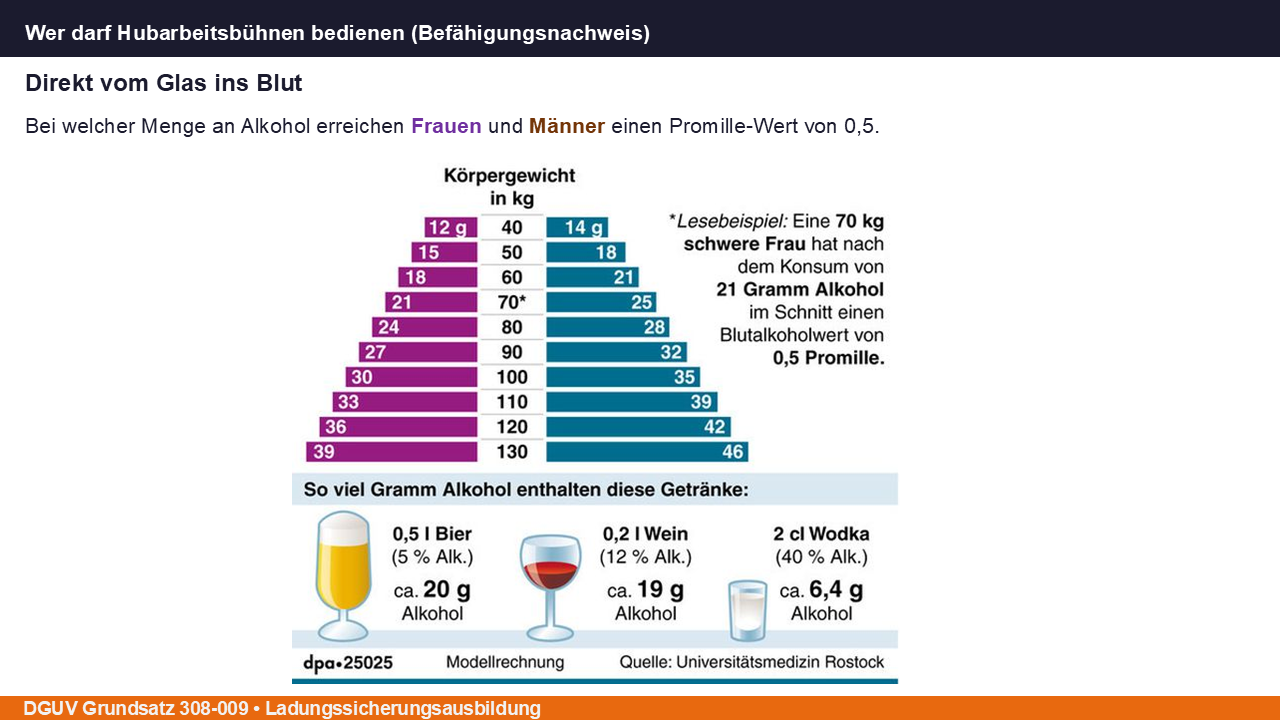
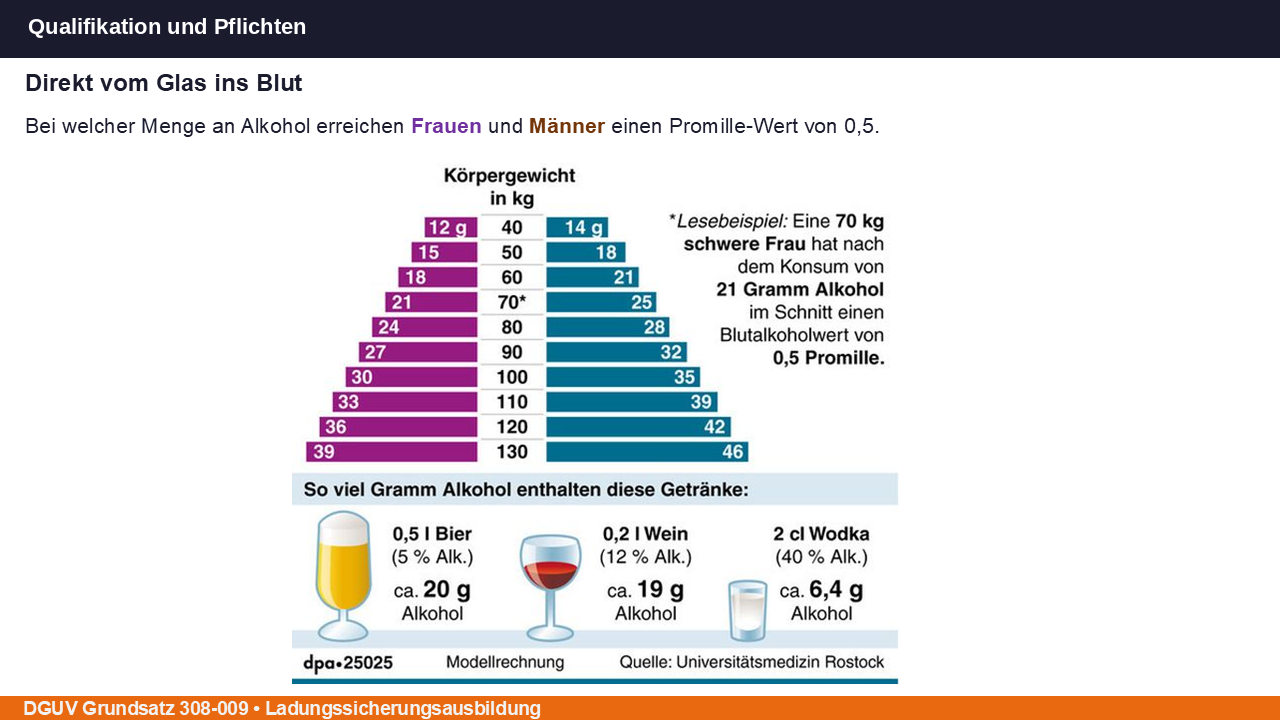
LaSi-Schulung: falsche Folientitel korrigiert + Foliennummerierung vereinheitlicht
Folie48.PNG und Folie49.PNG (Alkoholabbau-Inhalte in Kapitel "Rechtliche
Grundlagen & Verantwortung") trugen fälschlich die Titelzeile "Wer darf
Hubarbeitsbühnen bedienen (Befähigungsnachweis)" aus einem anderen
Foliensatz. Titelzeile auf "Qualifikation und Pflichten" korrigiert,
passend zu den unveränderten Nachbarfolien 47 und 50.

Zusätzlich zeigte die Kopfzeile ("Kapitel X · Folie Y") die
kapitelinterne Positionsnummer, während die Fußzeile die globale
Folien-ID anzeigte — für dieselbe Folie standen dadurch zwei
unterschiedliche "Folie"-Zahlen auf dem Bildschirm. Kopfzeile zeigt
jetzt dieselbe globale Folien-ID wie die Fußzeile; die
Kapitel-Fortschrittsanzeige unten heißt jetzt "X / Y in diesem Kapitel"
statt nochmal "Folie X / Y".

Changed region(s): [[0.0, 0.0306, 0.5, 0.0611]]

diff --git a/staplerapp_lasi_1.html b/staplerapp_lasi_1.html
@@ -666,7 +666,7 @@ function renderFoot(showBack=true,showNext=true,nextLabel='Weiter →'){
   let pageText='';
   if(s.type==='folie'||s.type==='video'){
     const k=KAPITEL[s.ki];
-    pageText=`Folie ${s.fi+1} / ${k.folien.length}`;
+    pageText=`${s.fi+1} / ${k.folien.length} in diesem Kapitel`;
   }
   foot.innerHTML=`
     ${showBack?`<button class="navbtn" onclick="goStep(${cur-1})" ${cur===0?'disabled':''}>← Zurück</button>`:'<div></div>'}
@@ -682,8 +682,8 @@ function render(){
   const crumb=document.getElementById('crumb');
   if(s.type==='welcome'){crumb.textContent='';renderWelcome(host);}
   else if(s.type==='chapter'){crumb.textContent=`Kapitel ${s.ki+1}`;renderChapter(host,s.ki);}
-  else if(s.type==='folie'){crumb.textContent=`Kapitel ${s.ki+1} · Folie ${s.fi+1}`;renderFolie(host,s);}
-  else if(s.type==='video'){crumb.textContent=`Kapitel ${s.ki+1} · Folie ${s.fi+1}`;renderVideo(host,s);}
+  else if(s.type==='folie'){crumb.textContent=`Kapitel ${s.ki+1} · Folie ${s.fn}`;renderFolie(host,s);}
+  else if(s.type==='video'){crumb.textContent=`Kapitel ${s.ki+1} · Folie ${s.fn}`;renderVideo(host,s);}
   else if(s.type==='quiz'){crumb.textContent=`Kapitel ${s.ki+1} · Wissenstest`;renderQuiz(host,s.ki);}
   else if(s.type==='exam'){crumb.textContent='';renderExam(host);}
 }
